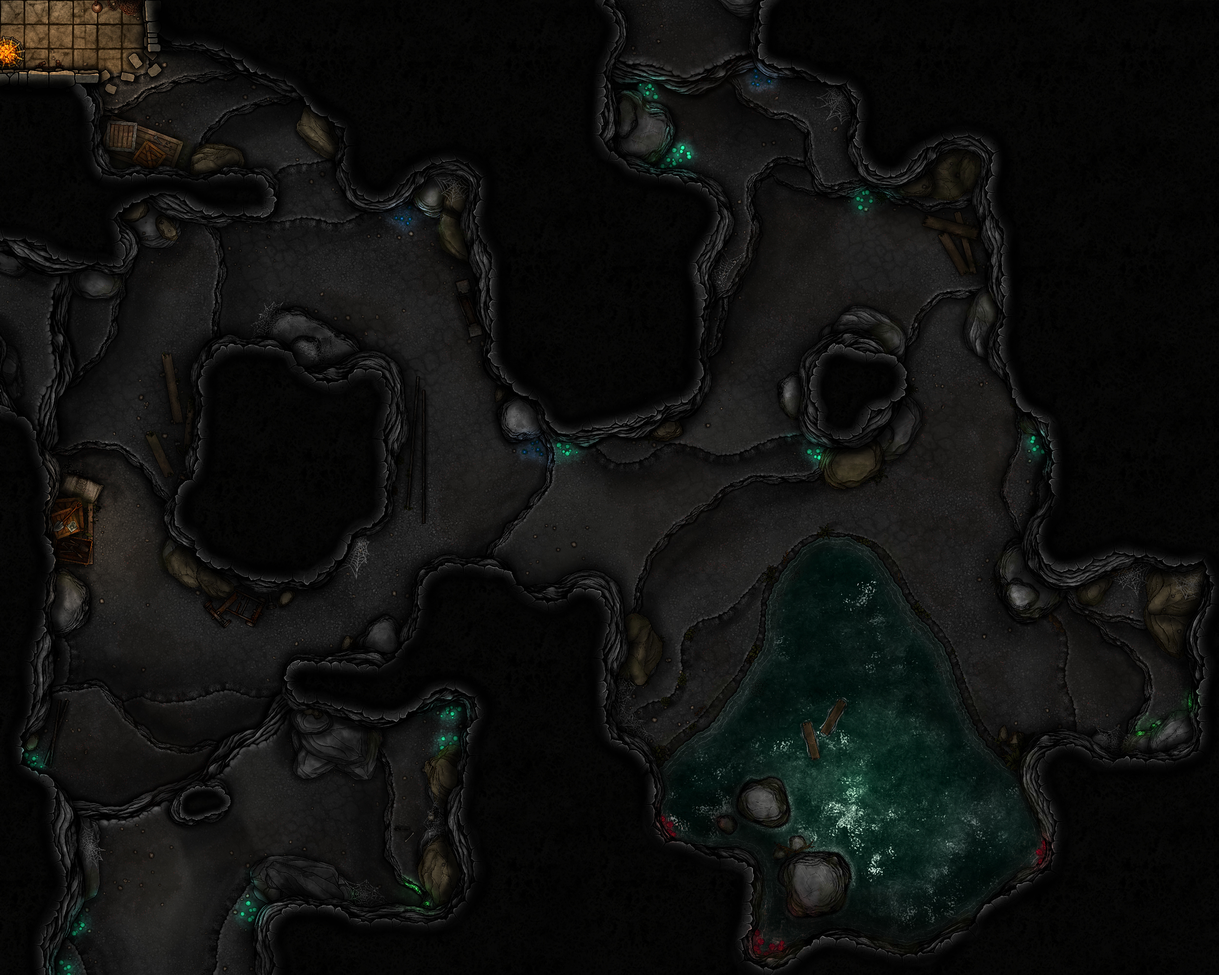
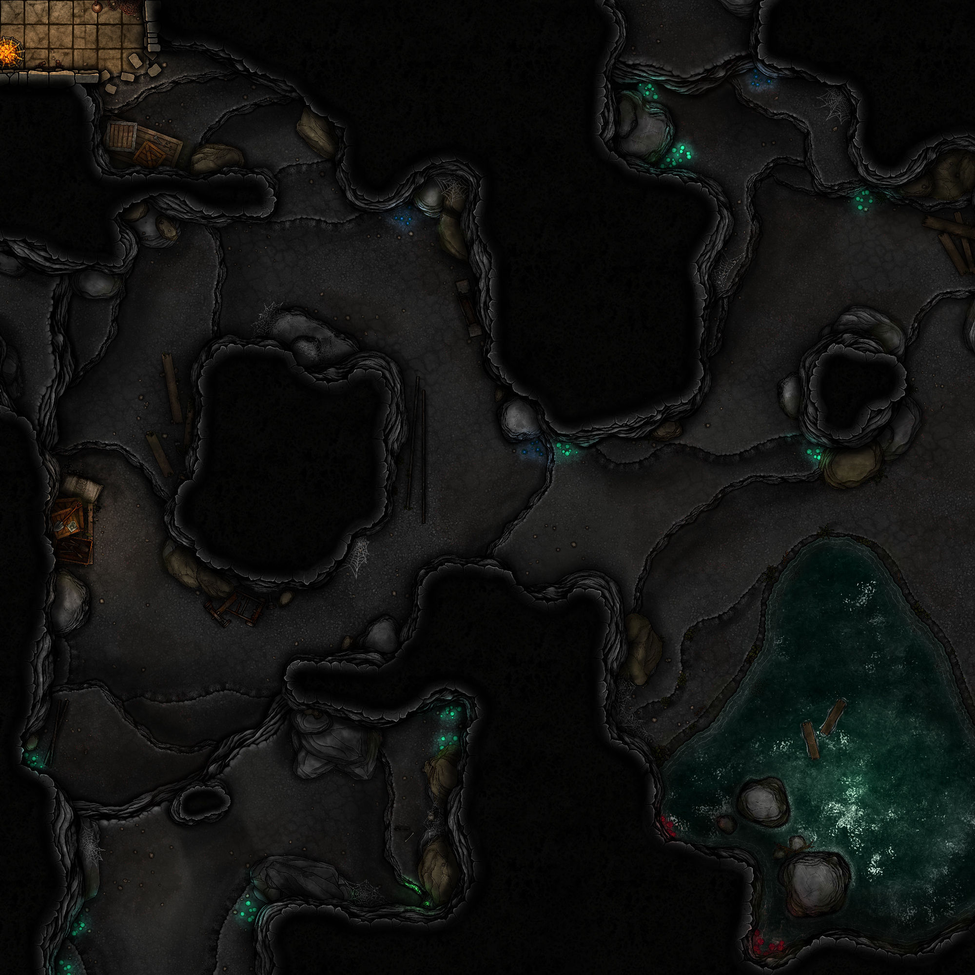
replace map images with square versions

Changed region(s): [[0.0, 0.0, 1.0, 1.0], [0.713, 0.496, 0.744, 0.527]]

diff --git a/maps.html b/maps.html
@@ -42,7 +42,7 @@
             <div class="map-block">
                 <div class="img-card">
                     <img src="/assets/images/maps/Astral Library 30x30 256ppi (no grid).jpg"
-                        alt="a top view battle map of library suspended in space">
+                    alt="a top view battle map of a library in space">
                     <h3>Astral Library</h3>
                     <ul>
                         <li>30x30 grid size</li>
@@ -86,11 +86,11 @@
             </div>
             <div class="map-block">
                 <div class="img-card">
-                    <img src="/assets/images/maps/Church generic blue, ground floor - day (No grid, 10 MB).jpg"
+                    <img src="/assets/images/maps/Market (Busy day, 10mb, no grid).jpg"
                     alt="a top view battle map of a church">
-                    <h3>Church</h3>
+                    <h3>Marketplace</h3>
                     <ul>
-                        <li>16x26 grid size</li>
+                        <li>35x30 grid size</li>
                         <li>Forgotten Adventures Assets</li>
                         <li>Created March 2021</li>
                     </ul>

diff --git a/assets/css/style.css b/assets/css/style.css
@@ -410,7 +410,6 @@ footer {
     width: 300px;
 }
 
-
 .map-block h3 {
     font-family: "Bebas Neue", sans-serif;
 }
